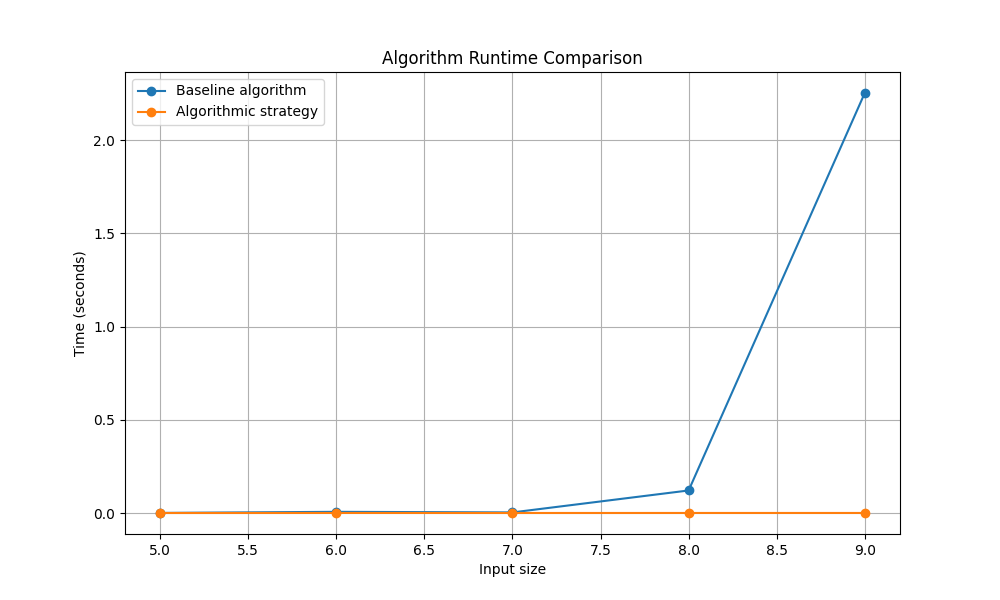
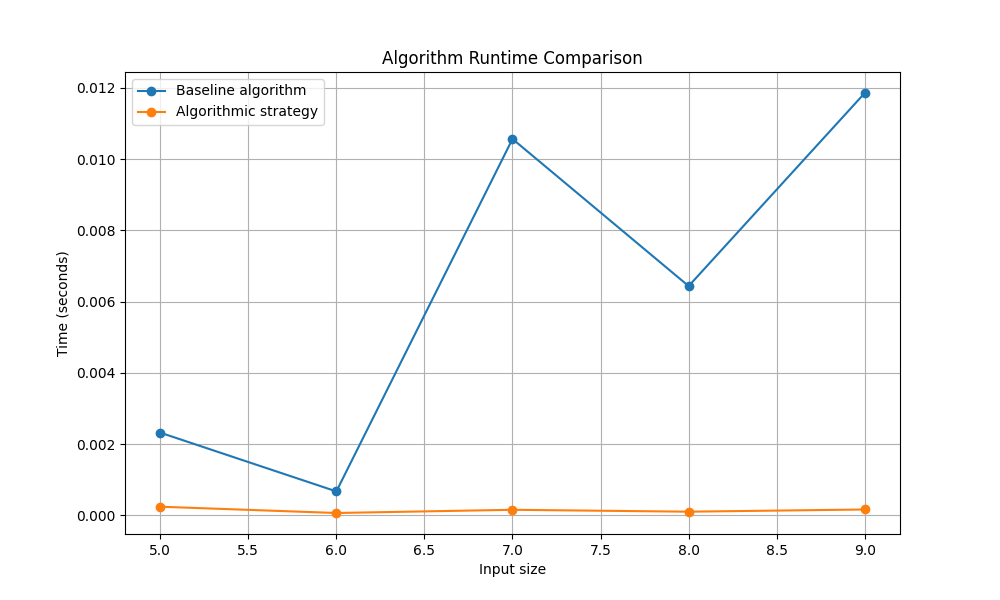
added evulations.md

diff --git a/src/main.py b/src/main.py
@@ -212,7 +212,7 @@ def soultion(starting: list[str], modified: list[str], correct: int = 2, incorre
 
 
 def main():
-    tests = [(5, 5), (6, 7), (7, 8), (8, 9), (9, 10)] #each are (+1, +2)
+    tests = [(5, 5), (6, 7), (7, 9), (8, 11), (9, 13)] #each are (+1, +2)
     benchmark_times = []
     heap_times = []
     print("running tests...")

diff --git a/markdown/evulations.md b/markdown/evulations.md
@@ -1,0 +1,19 @@
+# Empirical Evaluation
+
+## Overview
+We implemented our two algorithms (`main.py`) that solve the strand matching problem:
+1.  **Baseline Algorithm:** Naive recursive strategy, checking if the current index of the 2 strands are equal to each other, then making a recusive branch to capture every possibility.
+2.  **Proposed Algorithm:** storing any already computered calaulations into a dictonary and to return that value instead of repeating already computered soultions.
+
+Unit testing (`ptests.py`) confirms that both algorithms return the correct minimum computing cost as they were printed out the same result..
+
+## Benchmarking Results
+We compare the performance of our two algorithms on randomly generated strands, with varying input size ($n$), and varying mutations ($m$) from (5,5) to (9, 13) size/mutation, with each strand containg up to 9 different opps, and each mutation effecting either strand and adding or removing an opp. We present the results in the plots below. The left plot shows the execution time on a linear scale, while the right plot uses a logarithmic scale for both axes.
+
+| ![Benchmark Plot (Linear Scale)](Figure_1.png) | ![Benchmark Plot (Log Scale)](Figure_1_log.png) |
+|---|---|
+
+The empirical data aligns with our theoretical complexity analysis (`planning.md`):
+
+*   **Baseline Quadratic Scaling:** The baseline algorithm theoretically scales at $\mathcal{O}(3^(m+n))$ due to repeatedly sloving each recusive branch.
+*   **Proposed Algorithm Efficiency:** The proposed algorithm scales at $\mathcal{O}(nm)$, as there can only be m*n values within the dictornary, which causes the algorithem to be constant time once every value is able to be recalled.

diff --git a/markdown/planning.md b/markdown/planning.md
@@ -44,7 +44,7 @@ def baseline(starting, modified, correct, incorrect):
 ``` 
 
 **Algorithmic Strategy**
-Our algorithemic dyanmic, and our method is to store any already computered calaulations into a dictoarny and to return that value instead of repeating already computered soultions.
+Our algorithemic dyanmic, and our method is to store any already computered calaulations into a dictonary and to return that value instead of repeating already computered soultions.
 
 Inputs:
 starting: an list of operations
